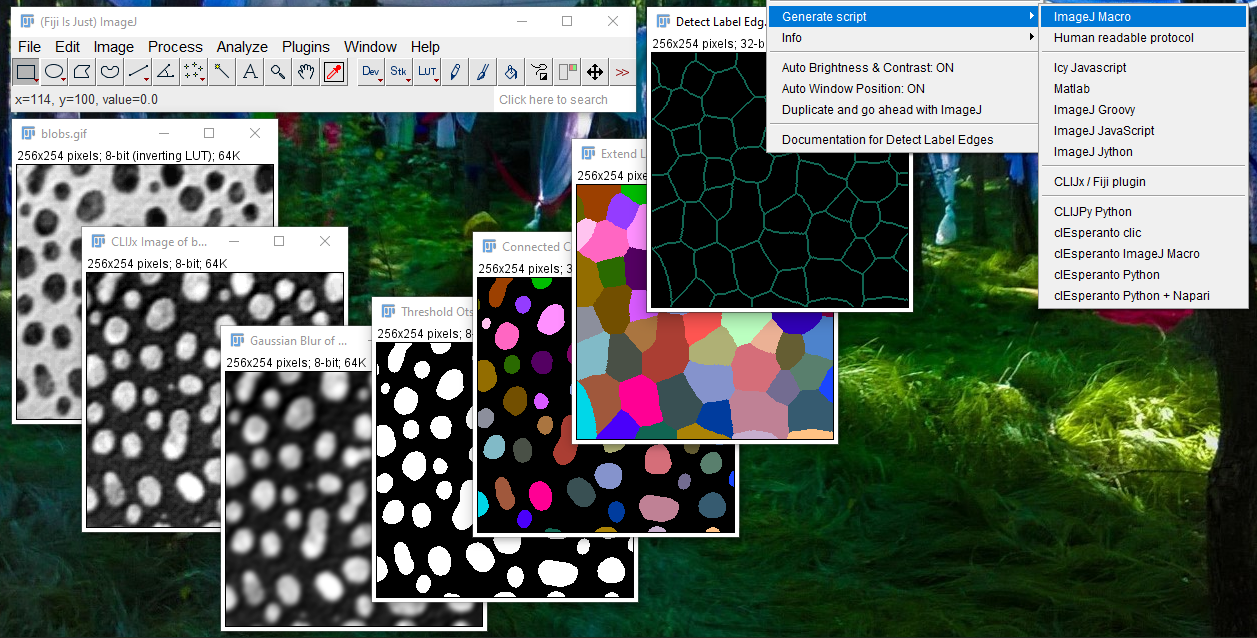
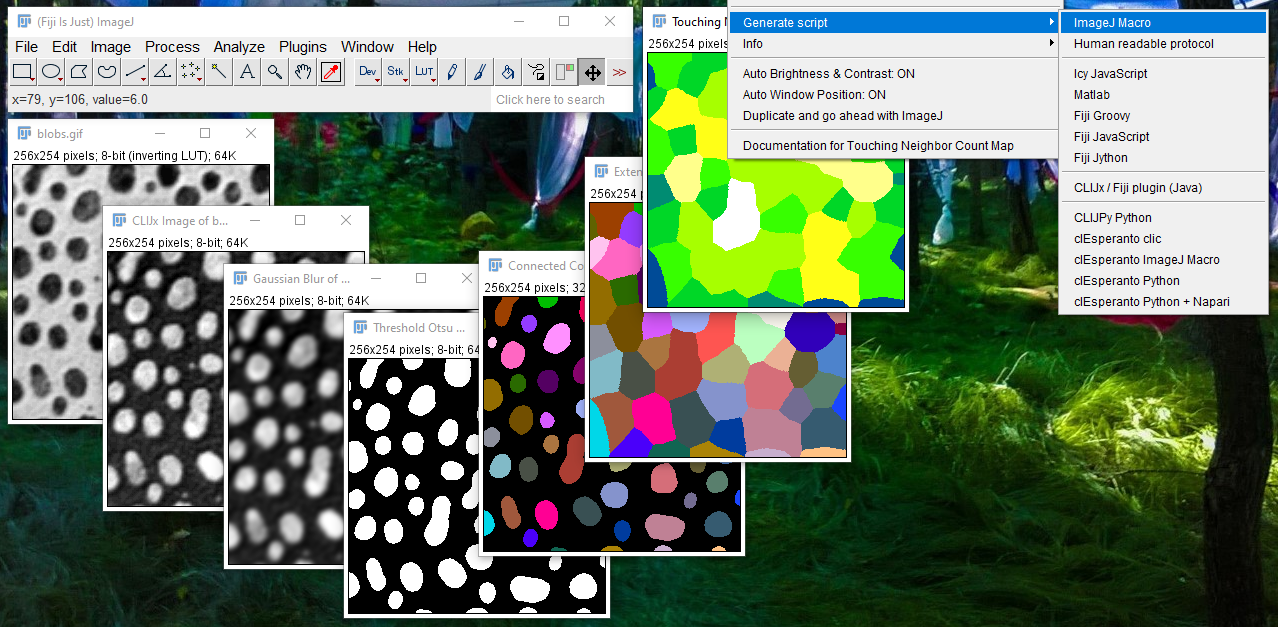
updated language names

diff --git a/src/main/java/net/haesleinhuepf/clijx/assistant/AbstractAssistantGUIPlugin.java b/src/main/java/net/haesleinhuepf/clijx/assistant/AbstractAssistantGUIPlugin.java
@@ -579,7 +579,7 @@ public abstract class AbstractAssistantGUIPlugin implements ImageListener, PlugI
         addMenuAction(script, "Fiji JavaScript", (a) -> {generateScript(new JavaScriptGenerator());});
         addMenuAction(script, "Fiji Jython", (a) -> {generateScript(new JythonGenerator());});
         script.add("-");
-        addMenuAction(script, "CLIJx / Fiji plugin", (a) -> {new MavenJavaProjectGeneratorPlugin().generate(this);});
+        addMenuAction(script, "CLIJx / Fiji plugin (Java)", (a) -> {new MavenJavaProjectGeneratorPlugin().generate(this);});
         script.add("-");
         addMenuAction(script, "CLIJPy Python", (a) -> {generateScript(new CLIJPyGenerator());});
         addMenuAction(script, "clEsperanto clic", (a) -> {generateScript(new ClicGenerator());});
